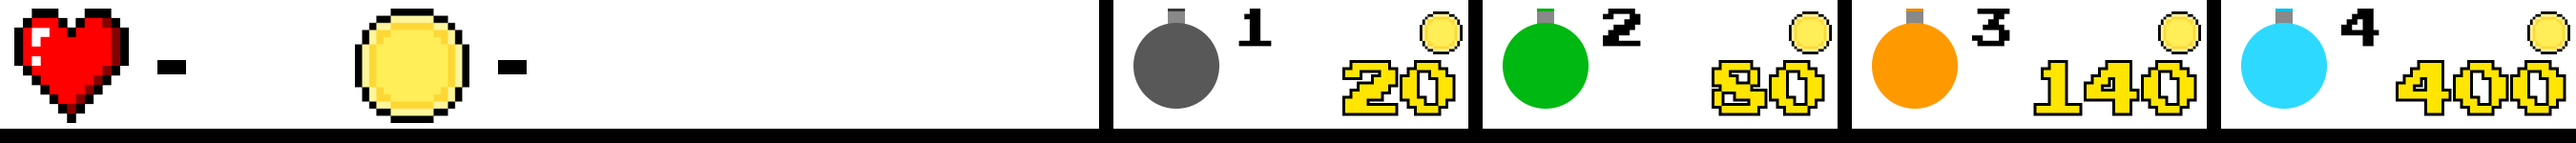
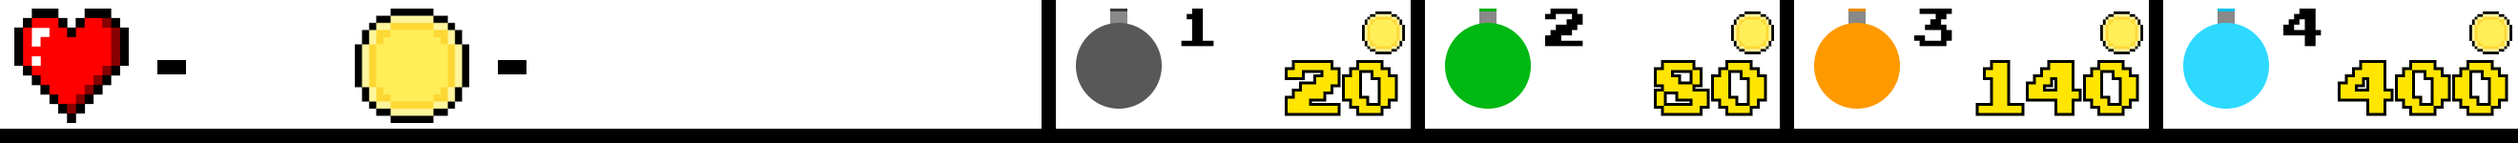
add value and damage properties to enemies + add background layer

diff --git a/enemy.js b/enemy.js
@@ -23,6 +23,8 @@ export class Grunt extends Enemy {
     this.healthBarHeight = 3;
     this.maxHealth = 100;
     this.health = this.maxHealth;
+    this.damage = 2;
+    this.value = 1;
     this.x = this.game.width - this.width;
     this.y = generateRandomWholeNumber(
       this.game.topBar.height,
@@ -34,10 +36,12 @@ export class Grunt extends Enemy {
   update(deltaTimeMultiplier) {
     if (this.x <= -this.width) {
       this.markedForDeletion = true;
+      this.game.lives -= this.damage;
     }
     if (this.health <= 0) {
       this.game.explosions.push(new Explosion(this.x, this.y, this.color));
       this.markedForDeletion = true;
+      this.game.coins += this.value;
     }
     const normalizedSpeed = this.speed * deltaTimeMultiplier;
     this.x -= normalizedSpeed;
@@ -71,6 +75,8 @@ export class Runner extends Enemy {
     this.healthBarHeight = 3;
     this.maxHealth = 40;
     this.health = this.maxHealth;
+    this.damage = 1;
+    this.value = 2;
     this.x = this.game.width - this.width;
     this.y = generateRandomWholeNumber(
       this.game.topBar.height,
@@ -82,10 +88,12 @@ export class Runner extends Enemy {
   update(deltaTimeMultiplier) {
     if (this.x <= -this.width) {
       this.markedForDeletion = true;
+      this.game.lives -= this.damage;
     }
     if (this.health <= 0) {
       this.game.explosions.push(new Explosion(this.x, this.y, this.color));
       this.markedForDeletion = true;
+      this.game.coins += this.value;
     }
     const normalizedSpeed = this.speed * deltaTimeMultiplier;
     this.x -= normalizedSpeed;
@@ -119,6 +127,8 @@ export class Tank extends Enemy {
     this.healthBarHeight = 3;
     this.maxHealth = 500;
     this.health = this.maxHealth;
+    this.damage = 4;
+    this.value = 3;
     this.x = this.game.width - this.width;
     this.y = generateRandomWholeNumber(
       this.game.topBar.height,
@@ -130,10 +140,12 @@ export class Tank extends Enemy {
   update(deltaTimeMultiplier) {
     if (this.x <= -this.width) {
       this.markedForDeletion = true;
+      this.game.lives -= this.damage;
     }
     if (this.health <= 0) {
       this.game.explosions.push(new Explosion(this.x, this.y, this.color));
       this.markedForDeletion = true;
+      this.game.coins += this.value;
     }
     const normalizedSpeed = this.speed * deltaTimeMultiplier;
     this.x -= normalizedSpeed;

diff --git a/main.js b/main.js
@@ -7,12 +7,14 @@ import { Player } from "./player.js";
 import { Grunt, Runner, Tank } from "./enemy.js";
 import { Turret } from "./turret.js";
 import { TopBar } from "./topBar.js";
+import { waves } from "./waves.js";
+import { Background } from "./background.js";
 
 window.addEventListener("load", function () {
   const canvas = document.getElementById("mainCanvas");
   const ctx = canvas.getContext("2d");
-  canvas.width = 900;
-  canvas.height = 550;
+  canvas.width = 880;
+  canvas.height = 530;
 
   class Game {
     constructor(width, height) {
@@ -26,16 +28,9 @@ window.addEventListener("load", function () {
       this.topBar = new TopBar(this);
       this.input = new InputHandler(this);
       this.player = new Player(this);
-      this.enemies = [
-        new Grunt(this),
-        new Grunt(this),
-        new Grunt(this),
-        new Runner(this),
-        new Runner(this),
-        new Tank(this),
-        new Tank(this),
-      ];
-      this.turrets = [new Turret(this, 50, 200)];
+      this.background = new Background(this);
+      this.enemies = [];
+      this.turrets = [];
       this.explosions = [];
       this.cursorX = 0;
       this.cursorY = 0;
@@ -62,6 +57,7 @@ window.addEventListener("load", function () {
     }
     draw(ctx) {
       this.topBar.draw(ctx);
+      this.background.draw(ctx);
       this.player.draw(ctx);
       this.enemies.forEach((enemy) => {
         enemy.draw(ctx);

diff --git a/topBar.js b/topBar.js
@@ -1,3 +1,7 @@
+/**
+ * @type { HTMLCanvasElement }
+ */
+
 export class TopBar {
   constructor(game) {
     this.game = game;
@@ -8,10 +12,10 @@ export class TopBar {
   draw(context) {
     context.drawImage(this.image, 0, 0, this.width, this.height);
     context.fillStyle = "red";
-    context.font = "40px Arial";
-    context.fillText(this.game.lives, 70, 38);
+    context.font = "35px Arial";
+    context.fillText(this.game.lives, 70, 36);
     context.fillStyle = "gold";
-    context.font = "40px Arial";
-    context.fillText(this.game.coins, 189, 38);
+    context.font = "35px Arial";
+    context.fillText(this.game.coins, 189, 36);
   }
 }

diff --git a/waves.js b/waves.js
@@ -1,0 +1,27 @@
+const wave1 = {
+  gruntCount: 10,
+  runnerCount: 0,
+  tankCount: 0,
+};
+const wave2 = {
+  gruntCount: 20,
+  runnerCount: 5,
+  tankCount: 0,
+};
+const wave3 = {
+  gruntCount: 40,
+  runnerCount: 5,
+  tankCount: 1,
+};
+const wave4 = {
+  gruntCount: 60,
+  runnerCount: 10,
+  tankCount: 2,
+};
+const wave5 = {
+  gruntCount: 80,
+  runnerCount: 20,
+  tankCount: 5,
+};
+
+export const waves = [wave1, wave2, wave3, wave4, wave5];

diff --git a/wayPoints.js b/wayPoints.js
@@ -1,0 +1,46 @@
+export const wayPoints = [
+  {
+    x: 100,
+    y: 140,
+  },
+  {
+    x: 300,
+    y: 140,
+  },
+  {
+    x: 300,
+    y: 260,
+  },
+  {
+    x: 100,
+    y: 260,
+  },
+  {
+    x: 100,
+    y: 380,
+  },
+  {
+    x: 420,
+    y: 380,
+  },
+  {
+    x: 420,
+    y: 100,
+  },
+  {
+    x: 660,
+    y: 100,
+  },
+  {
+    x: 660,
+    y: 380,
+  },
+  {
+    x: 820,
+    y: 380,
+  },
+  {
+    x: 820,
+    y: 180,
+  },
+];

diff --git a/index.html b/index.html
@@ -14,6 +14,7 @@
     <img id="slimeTurretSprite" src="assets/slime-turret-sprite.png" />
     <img id="teleportTurretSprite" src="assets/teleport-turret-sprite.png" />
     <img id="topBar" src="assets/top-bar.png" />
+    <img id="background" src="assets/background.png" />
     <img id="coin" src="assets/coin.png" />
     <img id="heart" src="assets/heart.png" />
     <script type="module" src="main.js"></script>

diff --git a/background.js b/background.js
@@ -1,0 +1,15 @@
+export class Background {
+  constructor(game) {
+    this.game = game;
+    this.image = document.getElementById("background");
+  }
+  draw(context) {
+    context.drawImage(
+      this.image,
+      0,
+      this.game.topBar.height,
+      this.game.width,
+      this.game.height - this.game.topBar.height
+    );
+  }
+}

diff --git a/turret.js b/turret.js
@@ -76,7 +76,7 @@ export class Turret {
     this.rotation = 0;
     this.shots = [];
     this.fireTime = 1;
-    this.fireTimeIncrement = 0.1;
+    this.fireTimeIncrement = 0.02;
     this.fireTimer = 0;
     this.image = document.getElementById("turretSprite");
   }

diff --git a/style.css b/style.css
@@ -20,6 +20,7 @@
 #slimeTurretSprite,
 #teleportTurretSprite,
 #topBar,
+#background,
 #coin,
 #heart {
   display: none;
